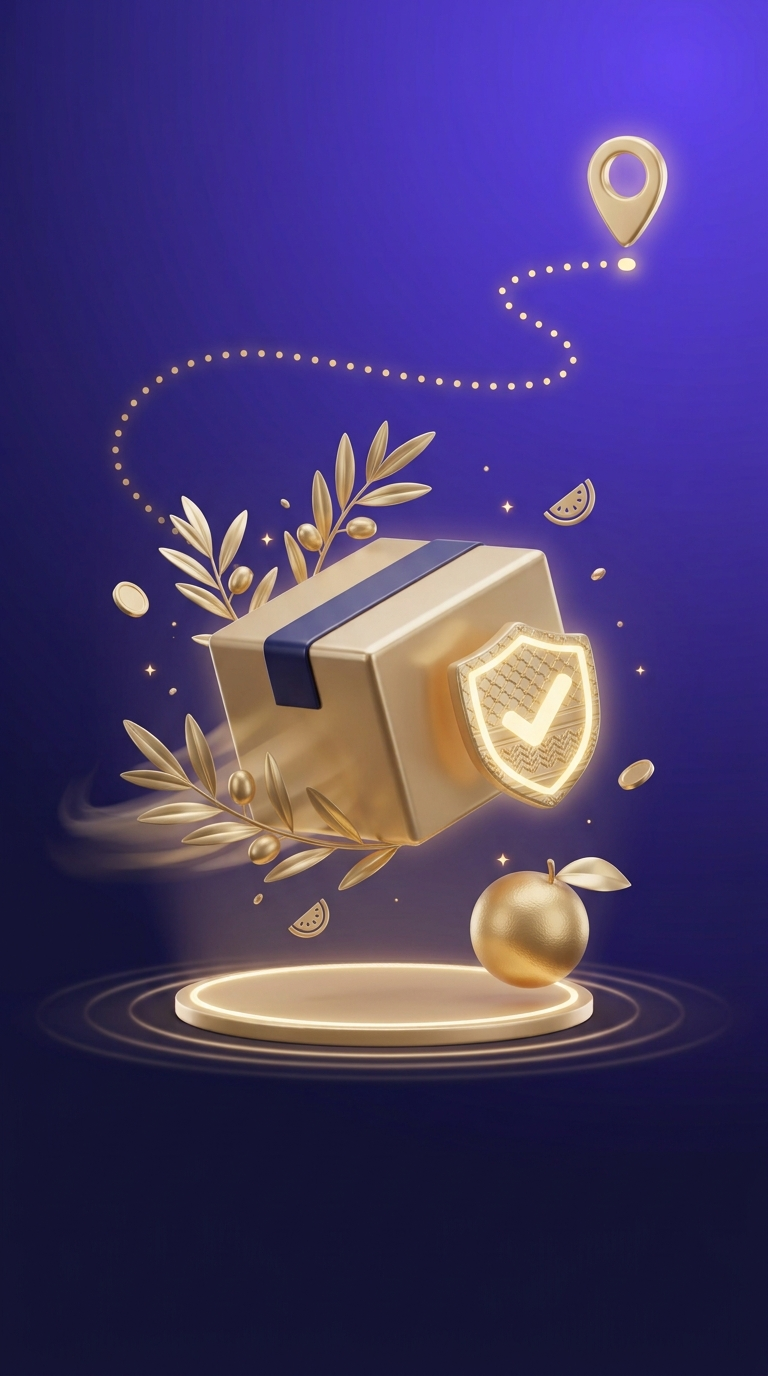
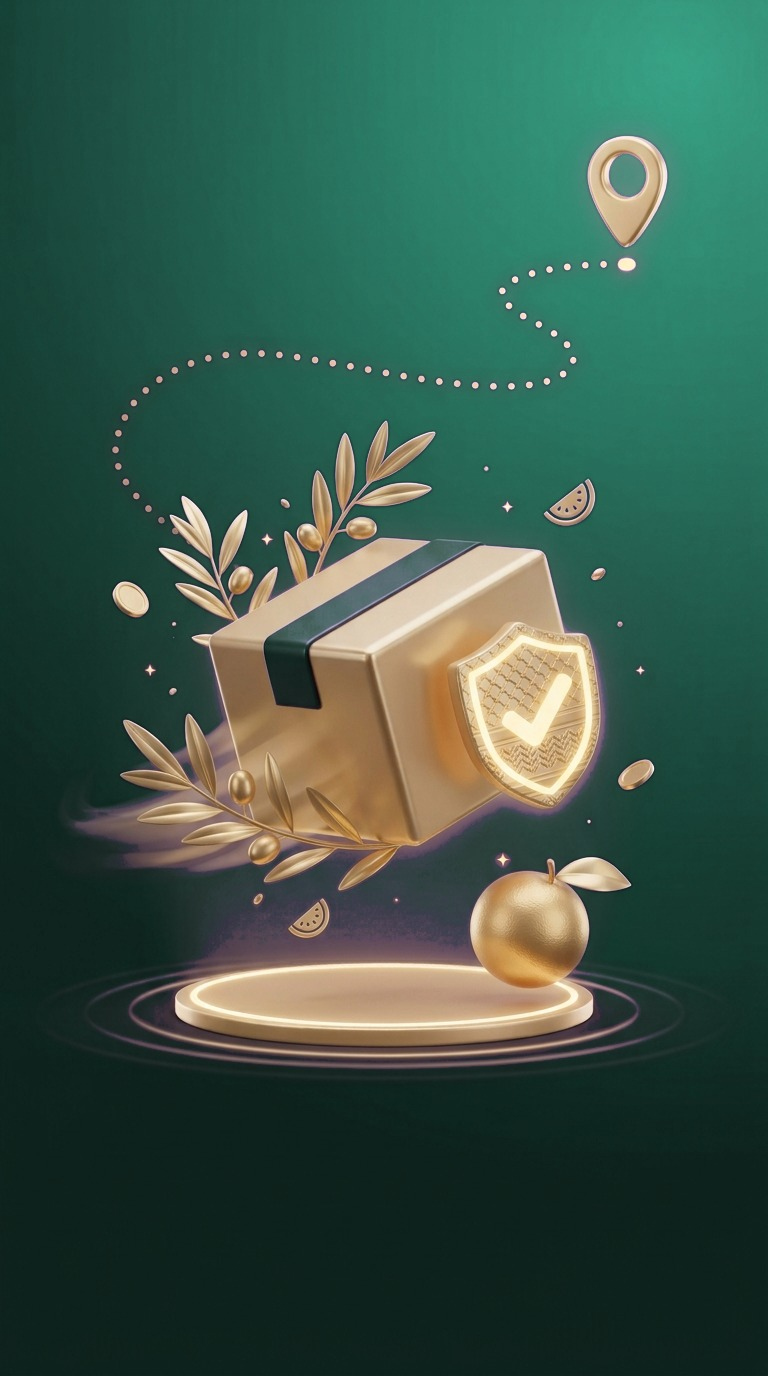
Onboarding and welcome in emerald: artwork recoloured from violet (golds and creams untouched), scrims and button text match the palette

diff --git a/lib/features/auth/presentation/pages/welcome_page.dart b/lib/features/auth/presentation/pages/welcome_page.dart
@@ -60,8 +60,8 @@ class _WelcomePageState extends State<WelcomePage> {
                   colors: [
                     Color(0x99000000),
                     Color(0x00000000),
-                    Color(0x660B0E2E),
-                    Color(0xF20B0E2E),
+                    Color(0x660A2620),
+                    Color(0xF20A2620),
                   ],
                   stops: [0, 0.28, 0.55, 1],
                 ),
@@ -197,7 +197,7 @@ class _LightButton extends StatelessWidget {
         onPressed: onPressed,
         style: ElevatedButton.styleFrom(
           backgroundColor: kBrandGold,
-          foregroundColor: const Color(0xFF14102E),
+          foregroundColor: const Color(0xFF0A2620),
           shape: const RoundedRectangleBorder(borderRadius: AppRadius.rMd),
         ),
         child: Text(label, textAlign: TextAlign.center),

diff --git a/lib/features/onboarding/presentation/widgets/onboarding_slide.dart b/lib/features/onboarding/presentation/widgets/onboarding_slide.dart
@@ -116,7 +116,7 @@ class OnboardingSlide extends StatelessWidget {
                     Color(0x66000000),
                     Color(0x00000000),
                     Color(0x00000000),
-                    Color(0xE60B0E2E),
+                    Color(0xE60A2620),
                     kOnboardingNavy,
                   ],
                   stops: [0, 0.18, 0.5, 0.78, 0.92],

diff --git a/lib/features/onboarding/presentation/pages/onboarding_page.dart b/lib/features/onboarding/presentation/pages/onboarding_page.dart
@@ -185,7 +185,7 @@ class _GoldButton extends StatelessWidget {
       },
       style: ElevatedButton.styleFrom(
         backgroundColor: kBrandGold,
-        foregroundColor: const Color(0xFF14102E),
+        foregroundColor: const Color(0xFF0A2620),
         minimumSize: const Size(0, 56),
         padding: const EdgeInsets.symmetric(horizontal: 28),
       ),
